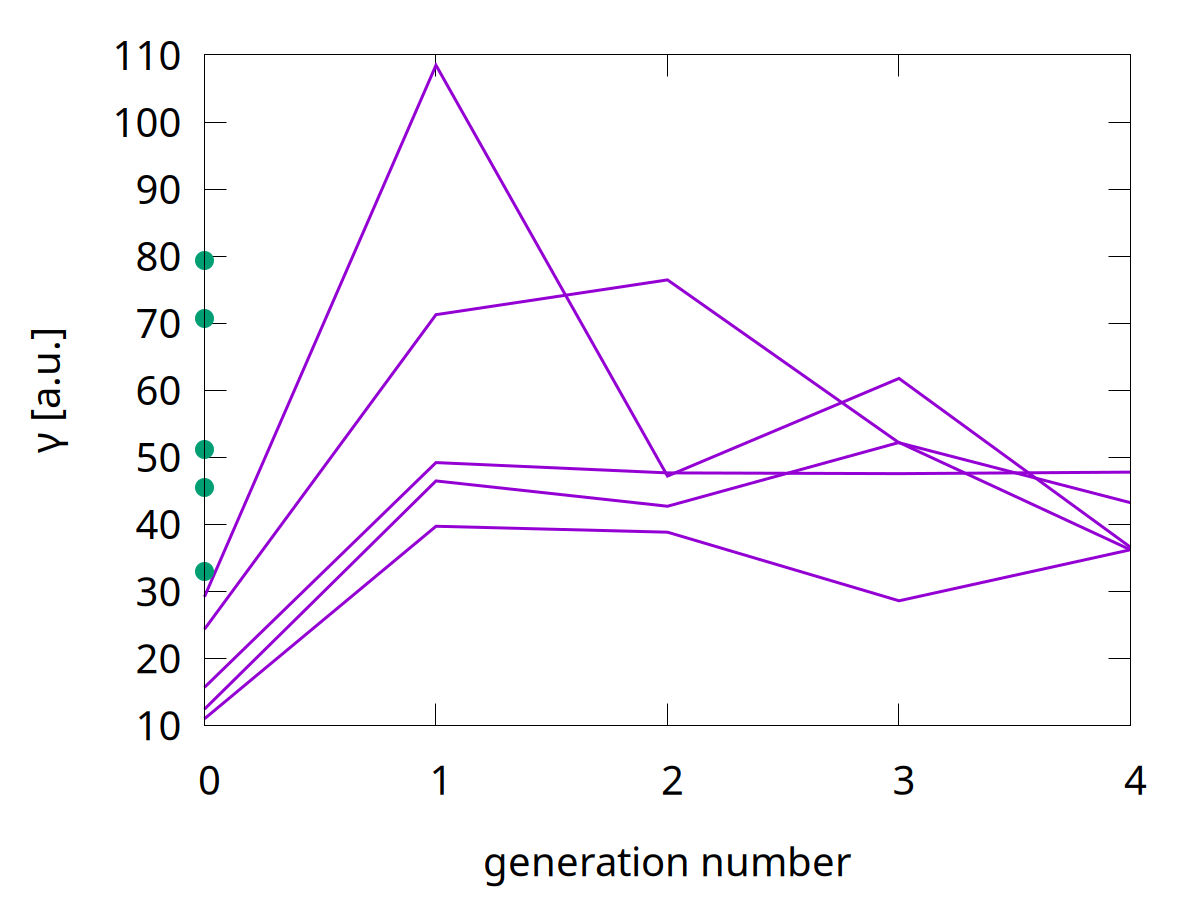
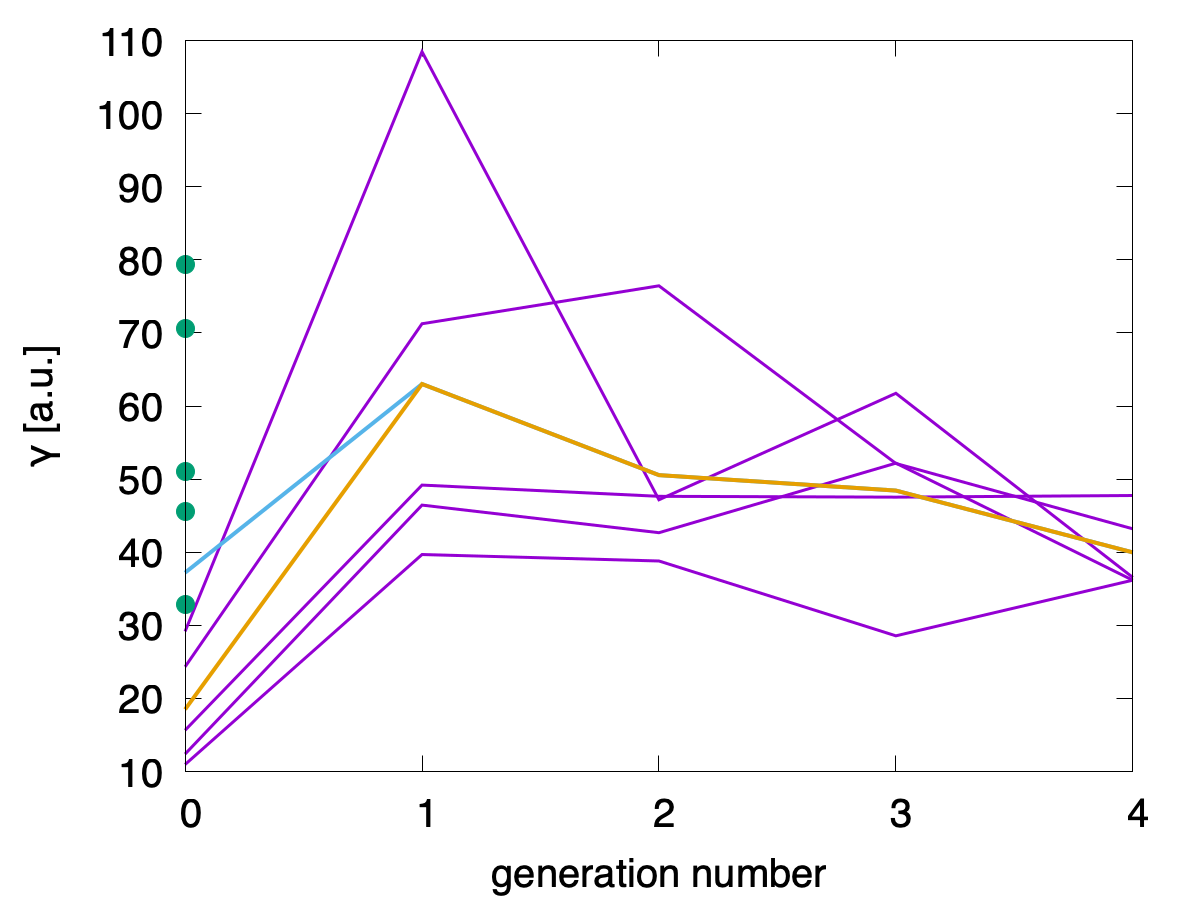
generational average

diff --git a/Code/Statistics/avg.py b/Code/Statistics/avg.py
@@ -1,0 +1,29 @@
+import numpy as np
+G_gen0=[
+        10.95940, 29.16378, 24.32170, 12.38955, 15.64646
+        , 
+        70.64908, 45.50493, 79.39680, 32.86985, 51.09902
+        ]
+G_gen1=[39.68027, 108.47050, 71.25290, 46.44359, 49.18166]
+G_gen2=[38.79620, 47.17184, 76.44246, 42.66628, 47.64474]
+G_gen3=[28.56022, 61.73920, 52.13835, 52.18121, 47.53164]
+G_gen4=[36.17699, 36.54716, 43.19611, 36.16643, 47.75640]
+G=[G_gen0, G_gen1, G_gen2, G_gen3, G_gen4]
+
+phd_gen0=[
+        0.00000, 0.02083, 0.00000, 0.00000, 0.03846
+        ,
+        0.78431, 0.02778, 0.86842, 0.00000, 0.03030
+        ]
+phd_gen1=[0.12500, 1.00000, 0.95652, 0.03030, 0.00000]
+phd_gen2=[0.05882, 0.33333, 1.00000, 0.00000, 0.00000]
+phd_gen3=[0.00000, 0.38710, 0.03571, 0.09091, 0.00000]
+phd_gen4=[0.06061, 0.04167, 0.00000, 0.04348, 0.00000]
+phd=[phd_gen0, phd_gen1, phd_gen2, phd_gen3, phd_gen4]
+
+a=5
+for i in range(5):
+#    print(G[i], G[i][5:9])
+#    print(i, np.average(G[i]), np.average(phd[i]), np.average(G[i][0:5]), np.average(phd[i][0:5])) 
+    print(f"{i:d}\t{np.average(G[i]):.4f}\t{np.average(phd[i]):.4f}\t{np.average(G[i][0:5]):.4f}\t{np.average(phd[i][0:5]):.4f}") 
+
